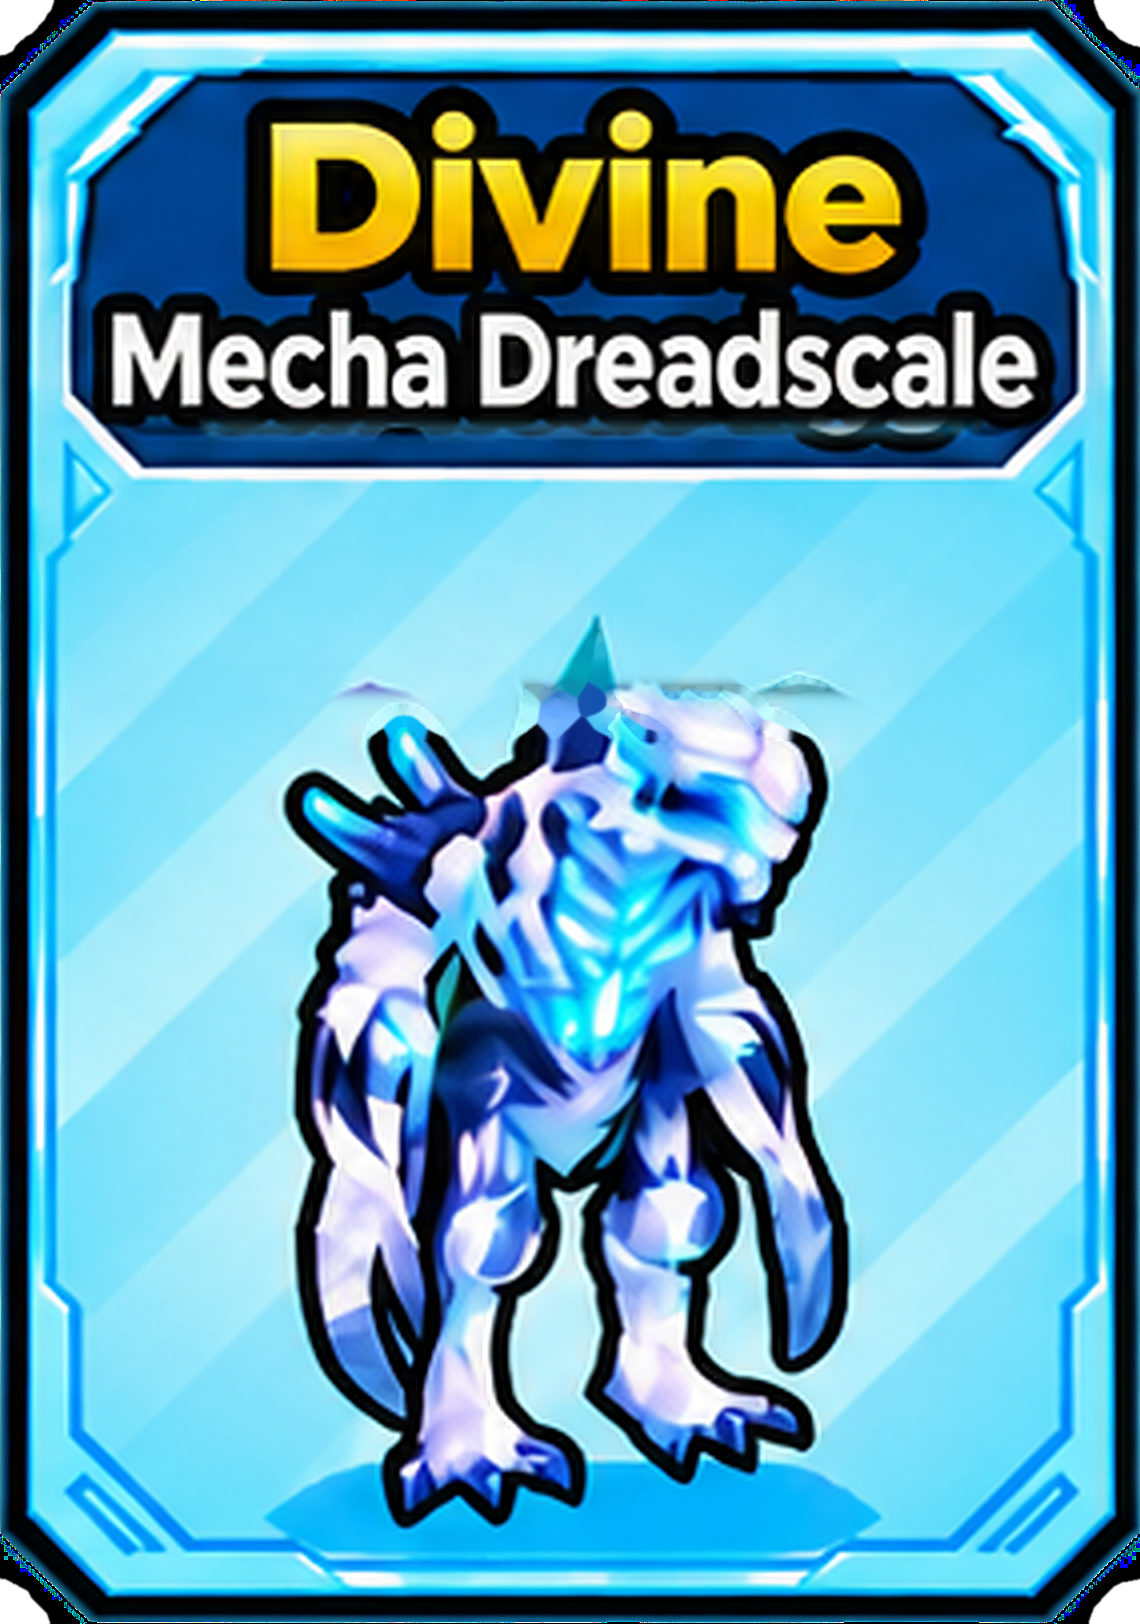
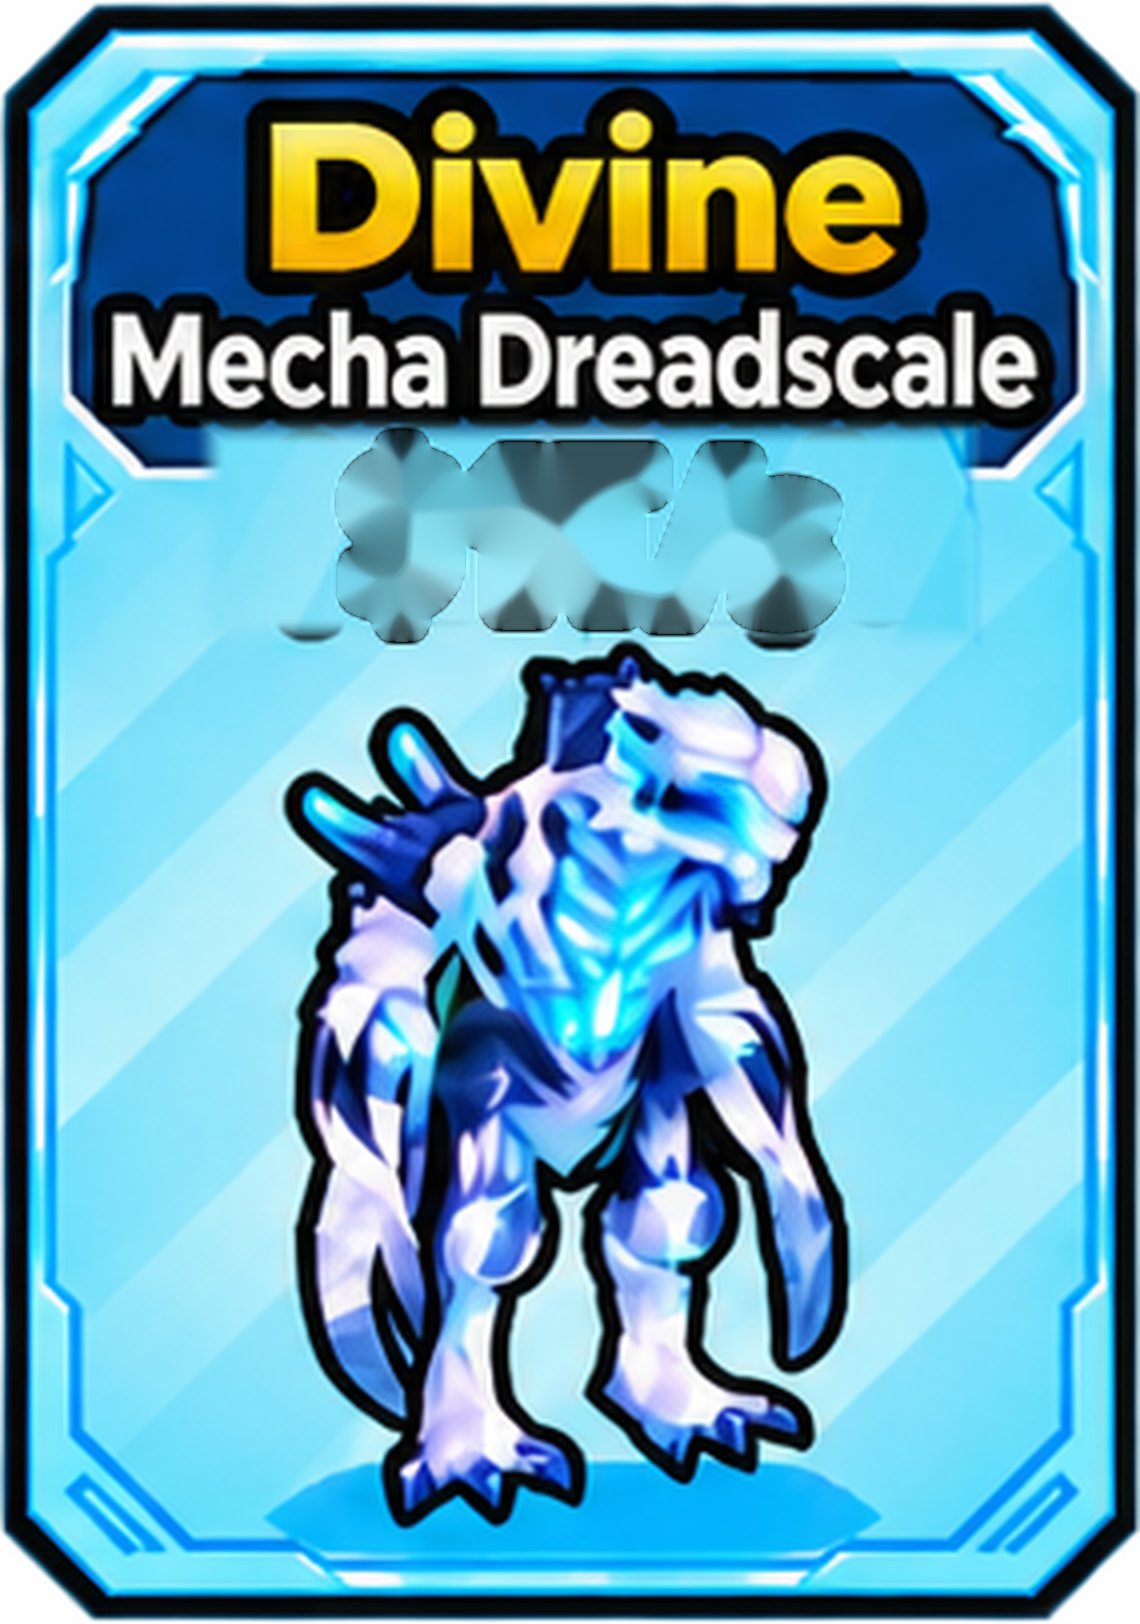
bfv

Changed region(s): [[0.0, 0.0, 1.0, 1.0], [0.0614, 0.2463, 0.8904, 0.4618]]

diff --git a/config.js b/config.js
@@ -1,1 +1,1 @@
-window.SAE_CONFIG={"version":"5.19-no-price-patch","cards":[{"id":"kitsune","name":"Kitsune","base":1800000000,"box":[22,93,285,405],"dynamic":true},{"id":"luminous_cthulhu","name":"Luminous Cthulhu","base":13000000000,"box":[320,92,292,407],"dynamic":true},{"id":"archangel","name":"ArchAngel","base":5000000000,"box":[625,92,286,407],"dynamic":true},{"id":"aetheron","name":"Aetheron","base":6900000000,"box":[922,92,293,407],"dynamic":true},{"id":"world_burner_cthulhu","name":"World Burner Cthulhu","base":5000000000,"box":[1224,92,294,407],"dynamic":true},{"id":"shattered_colossus","name":"Shattered Colossus","base":3500000000,"box":[21,515,286,407],"dynamic":true},{"id":"nightflame","name":"Nightflame","base":3000000000,"box":[320,516,293,407],"dynamic":true},{"id":"luminous_eggs","name":"Luminous Eggs","base":null,"box":[625,516,285,406],"dynamic":false},{"id":"cthulhu","name":"Cthulhu","base":5000000000,"box":[923,516,292,406],"dynamic":true},{"id":"mecha_dreadscale","name":"Mecha Dreadscale","base":4000000000,"box":[1230,516,285,406],"dynamic":true}],"mutations":{"silver":{"label":"Silver","multiplier":1.2},"golden":{"label":"Golden","multiplier":2.5},"rainbow":{"label":"Rainbow","multiplier":3.5},"bloom":{"label":"Bloom","multiplier":1.25},"spirit_bloom":{"label":"Spirit Bloom","multiplier":2.5},"parasite":{"label":"Parasite","multiplier":3.0},"fractured":{"label":"Fractured","multiplier":2.75}},"backend":"https://steal-an-egg-overlay-backend.leducho1900.workers.dev","room":"sae_421045db4089999b697c52d464c44d3a"};
+window.SAE_CONFIG={"version":"5.20-remove-old-price","cards":[{"id":"kitsune","name":"Kitsune","base":1800000000,"box":[22,93,285,405],"dynamic":true},{"id":"luminous_cthulhu","name":"Luminous Cthulhu","base":13000000000,"box":[320,92,292,407],"dynamic":true},{"id":"archangel","name":"ArchAngel","base":5000000000,"box":[625,92,286,407],"dynamic":true},{"id":"aetheron","name":"Aetheron","base":6900000000,"box":[922,92,293,407],"dynamic":true},{"id":"world_burner_cthulhu","name":"World Burner Cthulhu","base":5000000000,"box":[1224,92,294,407],"dynamic":true},{"id":"shattered_colossus","name":"Shattered Colossus","base":3500000000,"box":[21,515,286,407],"dynamic":true},{"id":"nightflame","name":"Nightflame","base":3000000000,"box":[320,516,293,407],"dynamic":true},{"id":"luminous_eggs","name":"Luminous Eggs","base":null,"box":[625,516,285,406],"dynamic":false},{"id":"cthulhu","name":"Cthulhu","base":5000000000,"box":[923,516,292,406],"dynamic":true},{"id":"mecha_dreadscale","name":"Mecha Dreadscale","base":4000000000,"box":[1230,516,285,406],"dynamic":true}],"mutations":{"silver":{"label":"Silver","multiplier":1.2},"golden":{"label":"Golden","multiplier":2.5},"rainbow":{"label":"Rainbow","multiplier":3.5},"bloom":{"label":"Bloom","multiplier":1.25},"spirit_bloom":{"label":"Spirit Bloom","multiplier":2.5},"parasite":{"label":"Parasite","multiplier":3.0},"fractured":{"label":"Fractured","multiplier":2.75}},"backend":"https://steal-an-egg-overlay-backend.leducho1900.workers.dev","room":"sae_421045db4089999b697c52d464c44d3a"};

diff --git a/control.html b/control.html
@@ -3,7 +3,7 @@
 <head>
 <meta charset="utf-8"><meta name="viewport" content="width=device-width,initial-scale=1">
 <meta http-equiv="Cache-Control" content="no-cache, no-store, must-revalidate">
-<title>Steal An Egg Control V5.19</title>
+<title>Steal An Egg Control V5.20</title>
 <style>
 *{box-sizing:border-box}
 body{margin:0;background:#0b0d11;color:#fff;font-family:Arial,Helvetica,sans-serif}
@@ -49,7 +49,7 @@ button{border:0;border-radius:10px;padding:10px 13px;font-weight:900;cursor:poin
 @media(max-width:800px){.grid{grid-template-columns:1fr}.muts{grid-template-columns:repeat(2,1fr)}}
 </style>
 </head><body><main>
-<h1>🥚 Steal An Egg Control V5.19 — FIXED</h1>
+<h1>🥚 Steal An Egg Control V5.20 — FIXED</h1>
 <div class="sub"><span class="syncstatus" id="syncStatus">● Đang kiểm tra D1...</span> 
 Weight nhập <b>1–1000</b>. <b>Weight 1 = đúng tiền gốc</b>; tăng Weight thì tự nhân theo đường cong size.
 Mutation cộng bonus theo hệ số. Weight/Mutation tự tính tiền. Đồng bộ qua Cloudflare D1, không dùng Cache API. Weight/Mutation/Bật-Tắt/x2–x10 cập nhật chung một state; x1 không hiện nhãn, Luminous Eggs không có nhãn số lượng.
@@ -481,7 +481,7 @@ allOn.onclick=()=>{for(const c of CFG.cards)state.cards[c.id].enabled=true;saveA
 allOff.onclick=()=>{for(const c of CFG.cards)state.cards[c.id].enabled=false;saveAndPublish()};
 reset.onclick=()=>{for(const c of CFG.cards){state.cards[c.id].weight=1;state.cards[c.id].mutations=[];state.cards[c.id].qty=1}saveAndPublish()};
 copyLink.onclick=async()=>{
- const u=new URL("index.html?v=519",location.href).href;
+ const u=new URL("index.html?v=520",location.href).href;
  try{await navigator.clipboard.writeText(u);copyLink.textContent="ĐÃ COPY";setTimeout(()=>copyLink.textContent="Copy Overlay Link",1200)}
  catch(_e){prompt("Copy link Overlay:",u)}
 };

diff --git a/index.html b/index.html
@@ -4,7 +4,7 @@
 <meta charset="utf-8">
 <meta name="viewport" content="width=device-width,initial-scale=1">
 <meta http-equiv="Cache-Control" content="no-cache, no-store, must-revalidate">
-<title>Steal An Egg Overlay V5.19 NO PRICE PATCH</title>
+<title>Steal An Egg Overlay V5.20 REMOVE OLD PRICE</title>
 <style>
 *{box-sizing:border-box}
 html,body{margin:0;width:100%;height:100%;background:transparent!important;overflow:hidden}
@@ -145,9 +145,7 @@ body{font-family:Arial,Helvetica,sans-serif}
   100% { background-position:0% 50%; }
 }
 /* Chỉ che dòng tiền CŨ trên giao diện. File PNG gốc không bị chỉnh sửa. */
-.price-cover{
-  display:none!important;
-}
+.price-cover{display:none!important;}
 .price-text{
   position:absolute;
   left:2.5%;
